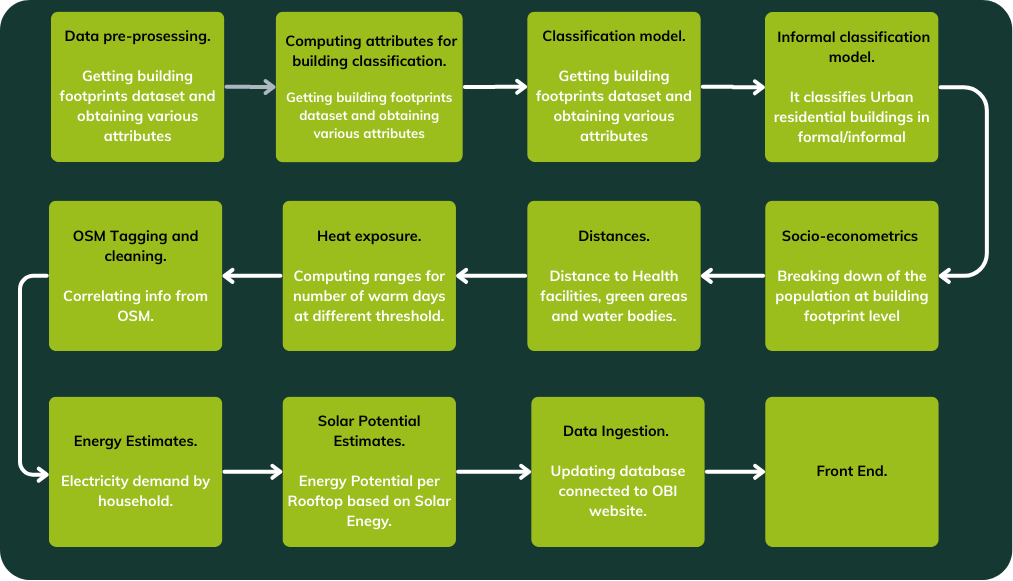
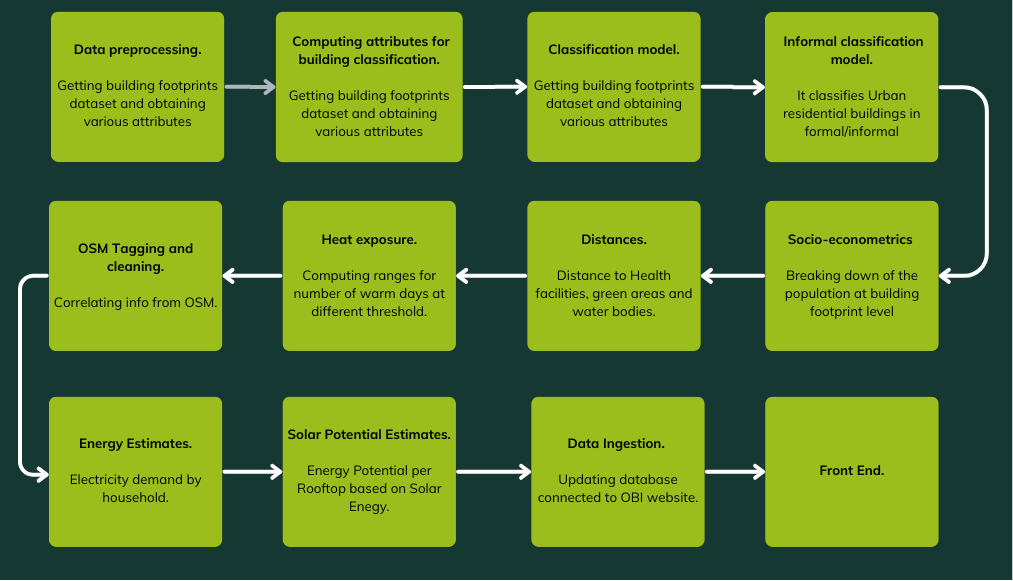
adding workflow

diff --git a/documentation/pipeline_readme.md b/documentation/pipeline_readme.md
@@ -4,7 +4,7 @@ Open Building Insights is composed of two distinct functional blocks. The first 
 ## Suggested pipeline  
 This section outlines the computational workflow used to obtain OBI datasets in India and Kenya. The scripts used are available on [GitHub](https://github.com/orgs/Open-Building-Insights/repositories), where each repository contains the relevant notebooks executed. These include: 
 * Data preprocessing 	 
-* Building Classification 
+* Building classification 
 * Informal settlement detection 
 * Socio-economics 
 * Distance Metrics / Proximity Calculations  
@@ -16,7 +16,7 @@ Energy Estimates
 ![obi-workflow](/documentation/images/workflow.png)
 
 ### Data preprocessing
-### Building Classification 
+### Building classification 
 ### Informal settlement detection 
 ### Socio-economics 
 ### Distance Metrics / Proximity Calculations  
